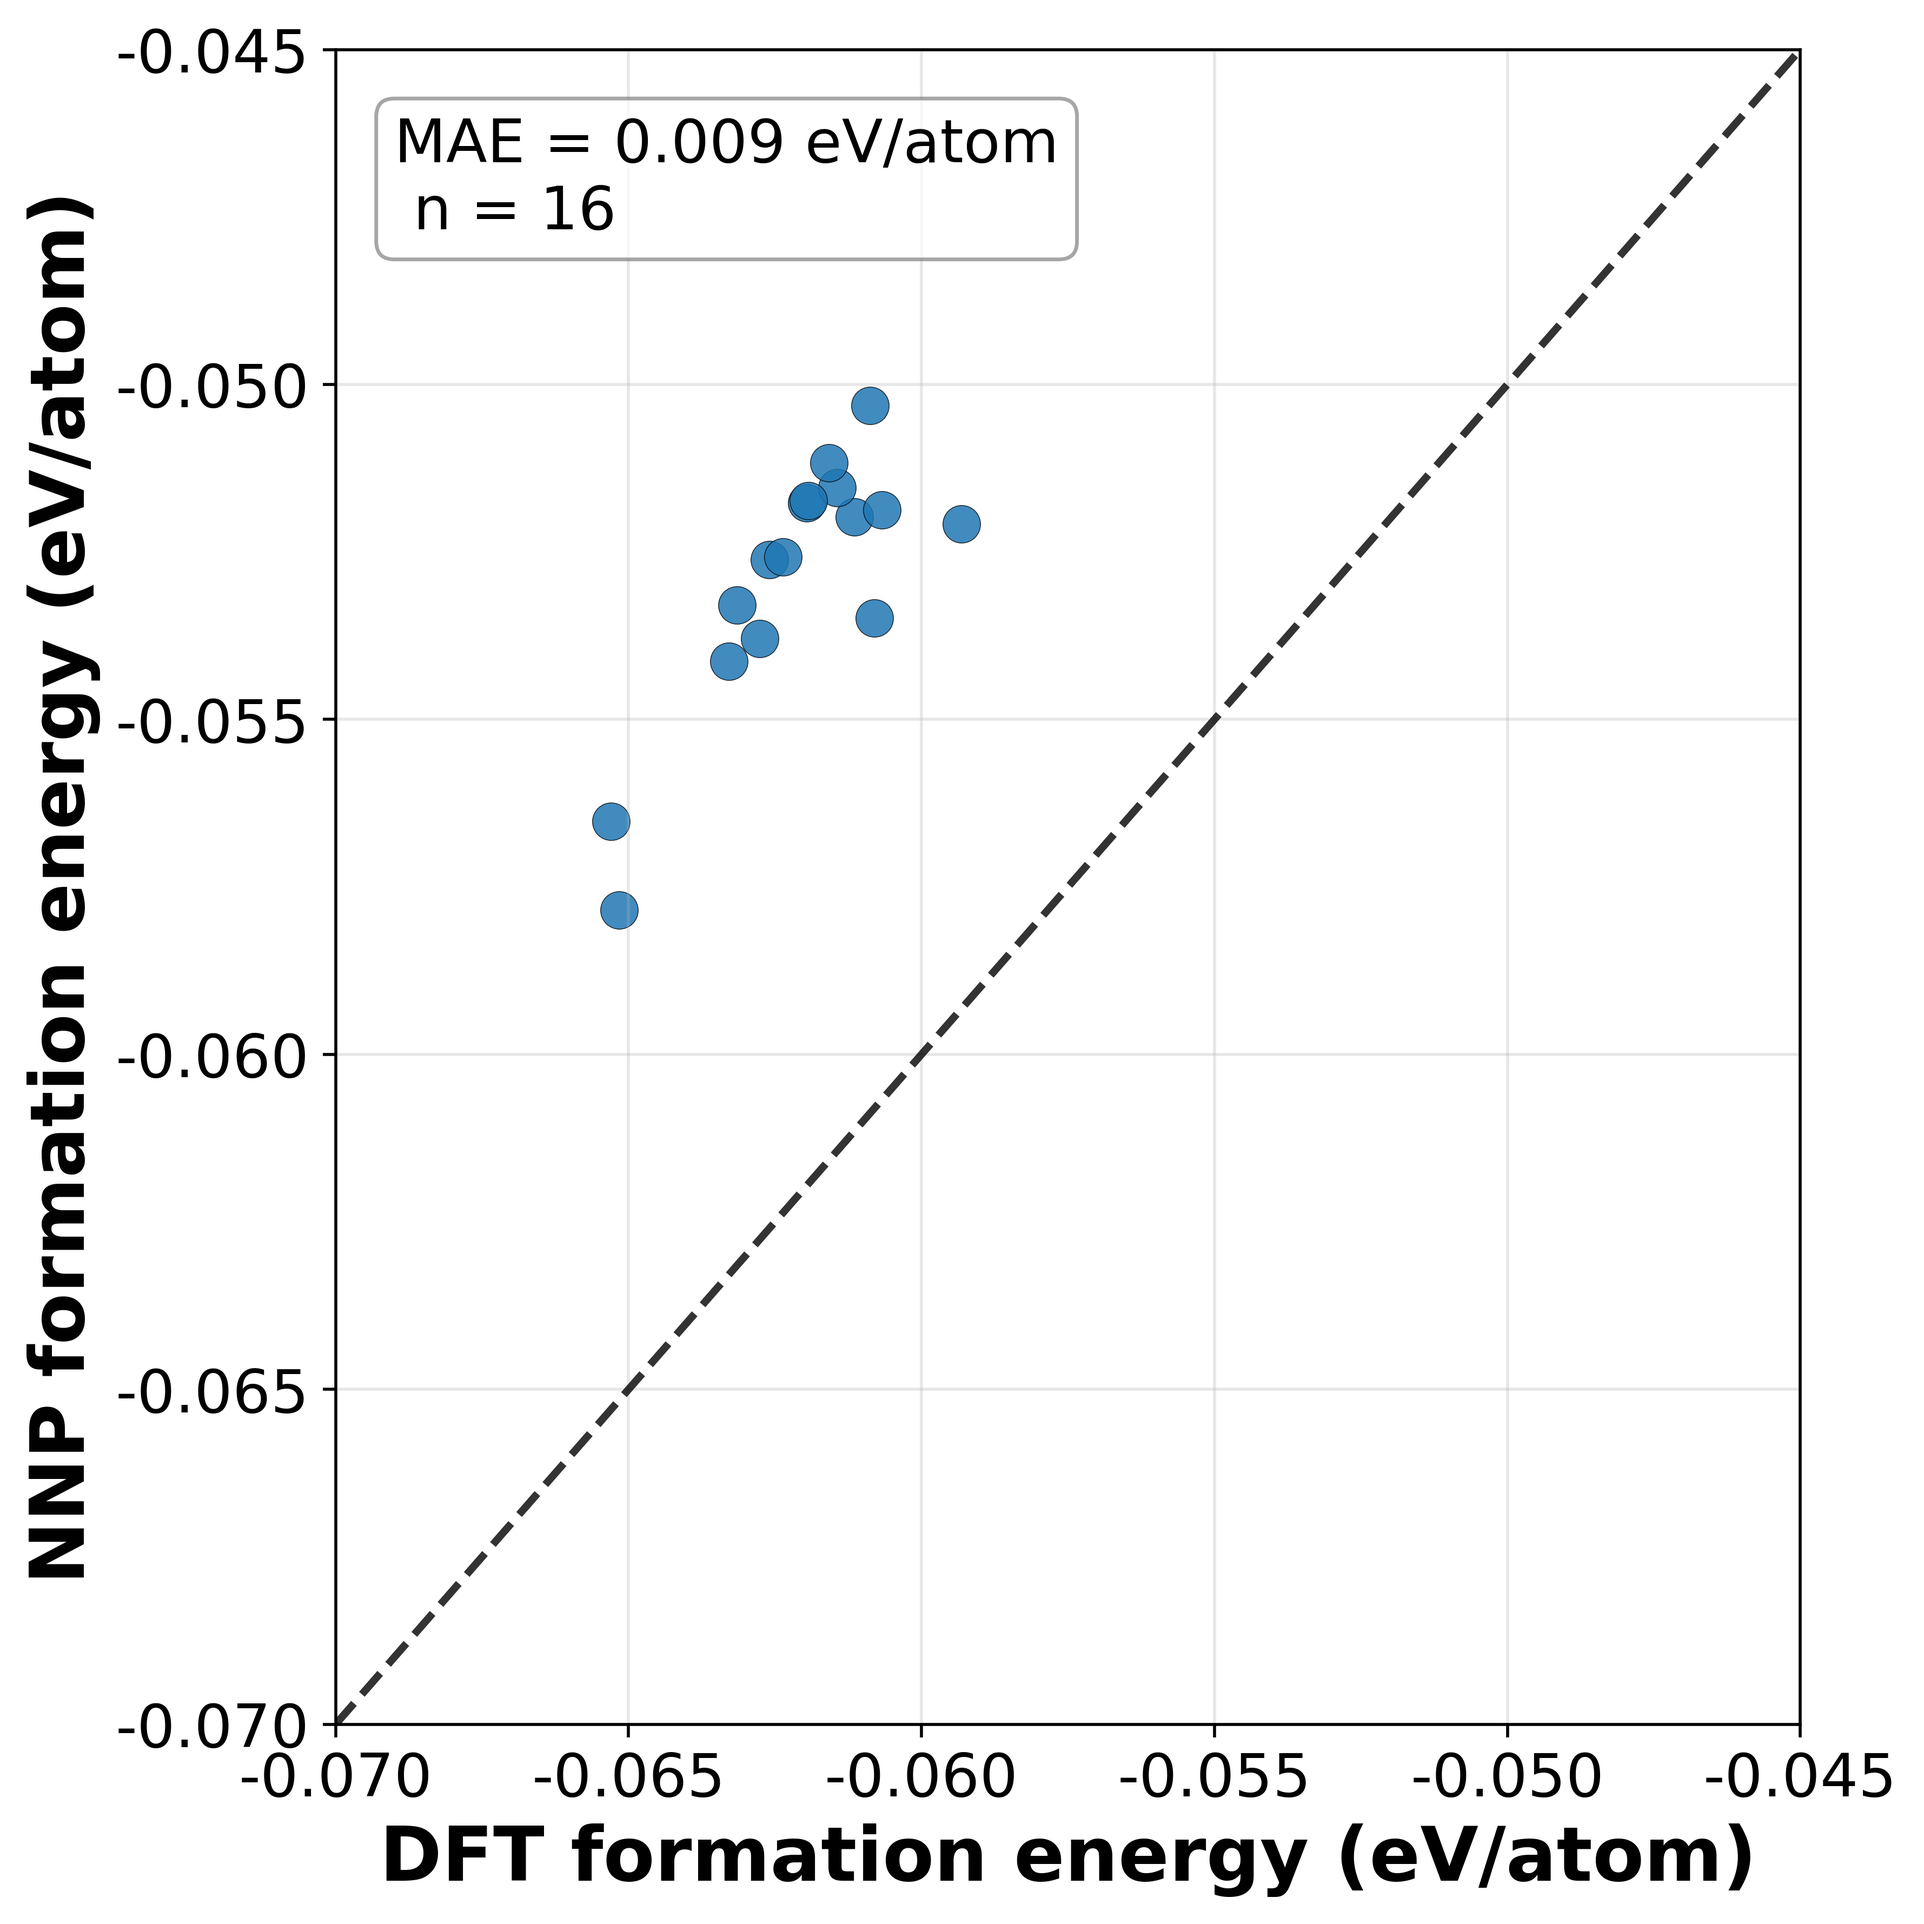
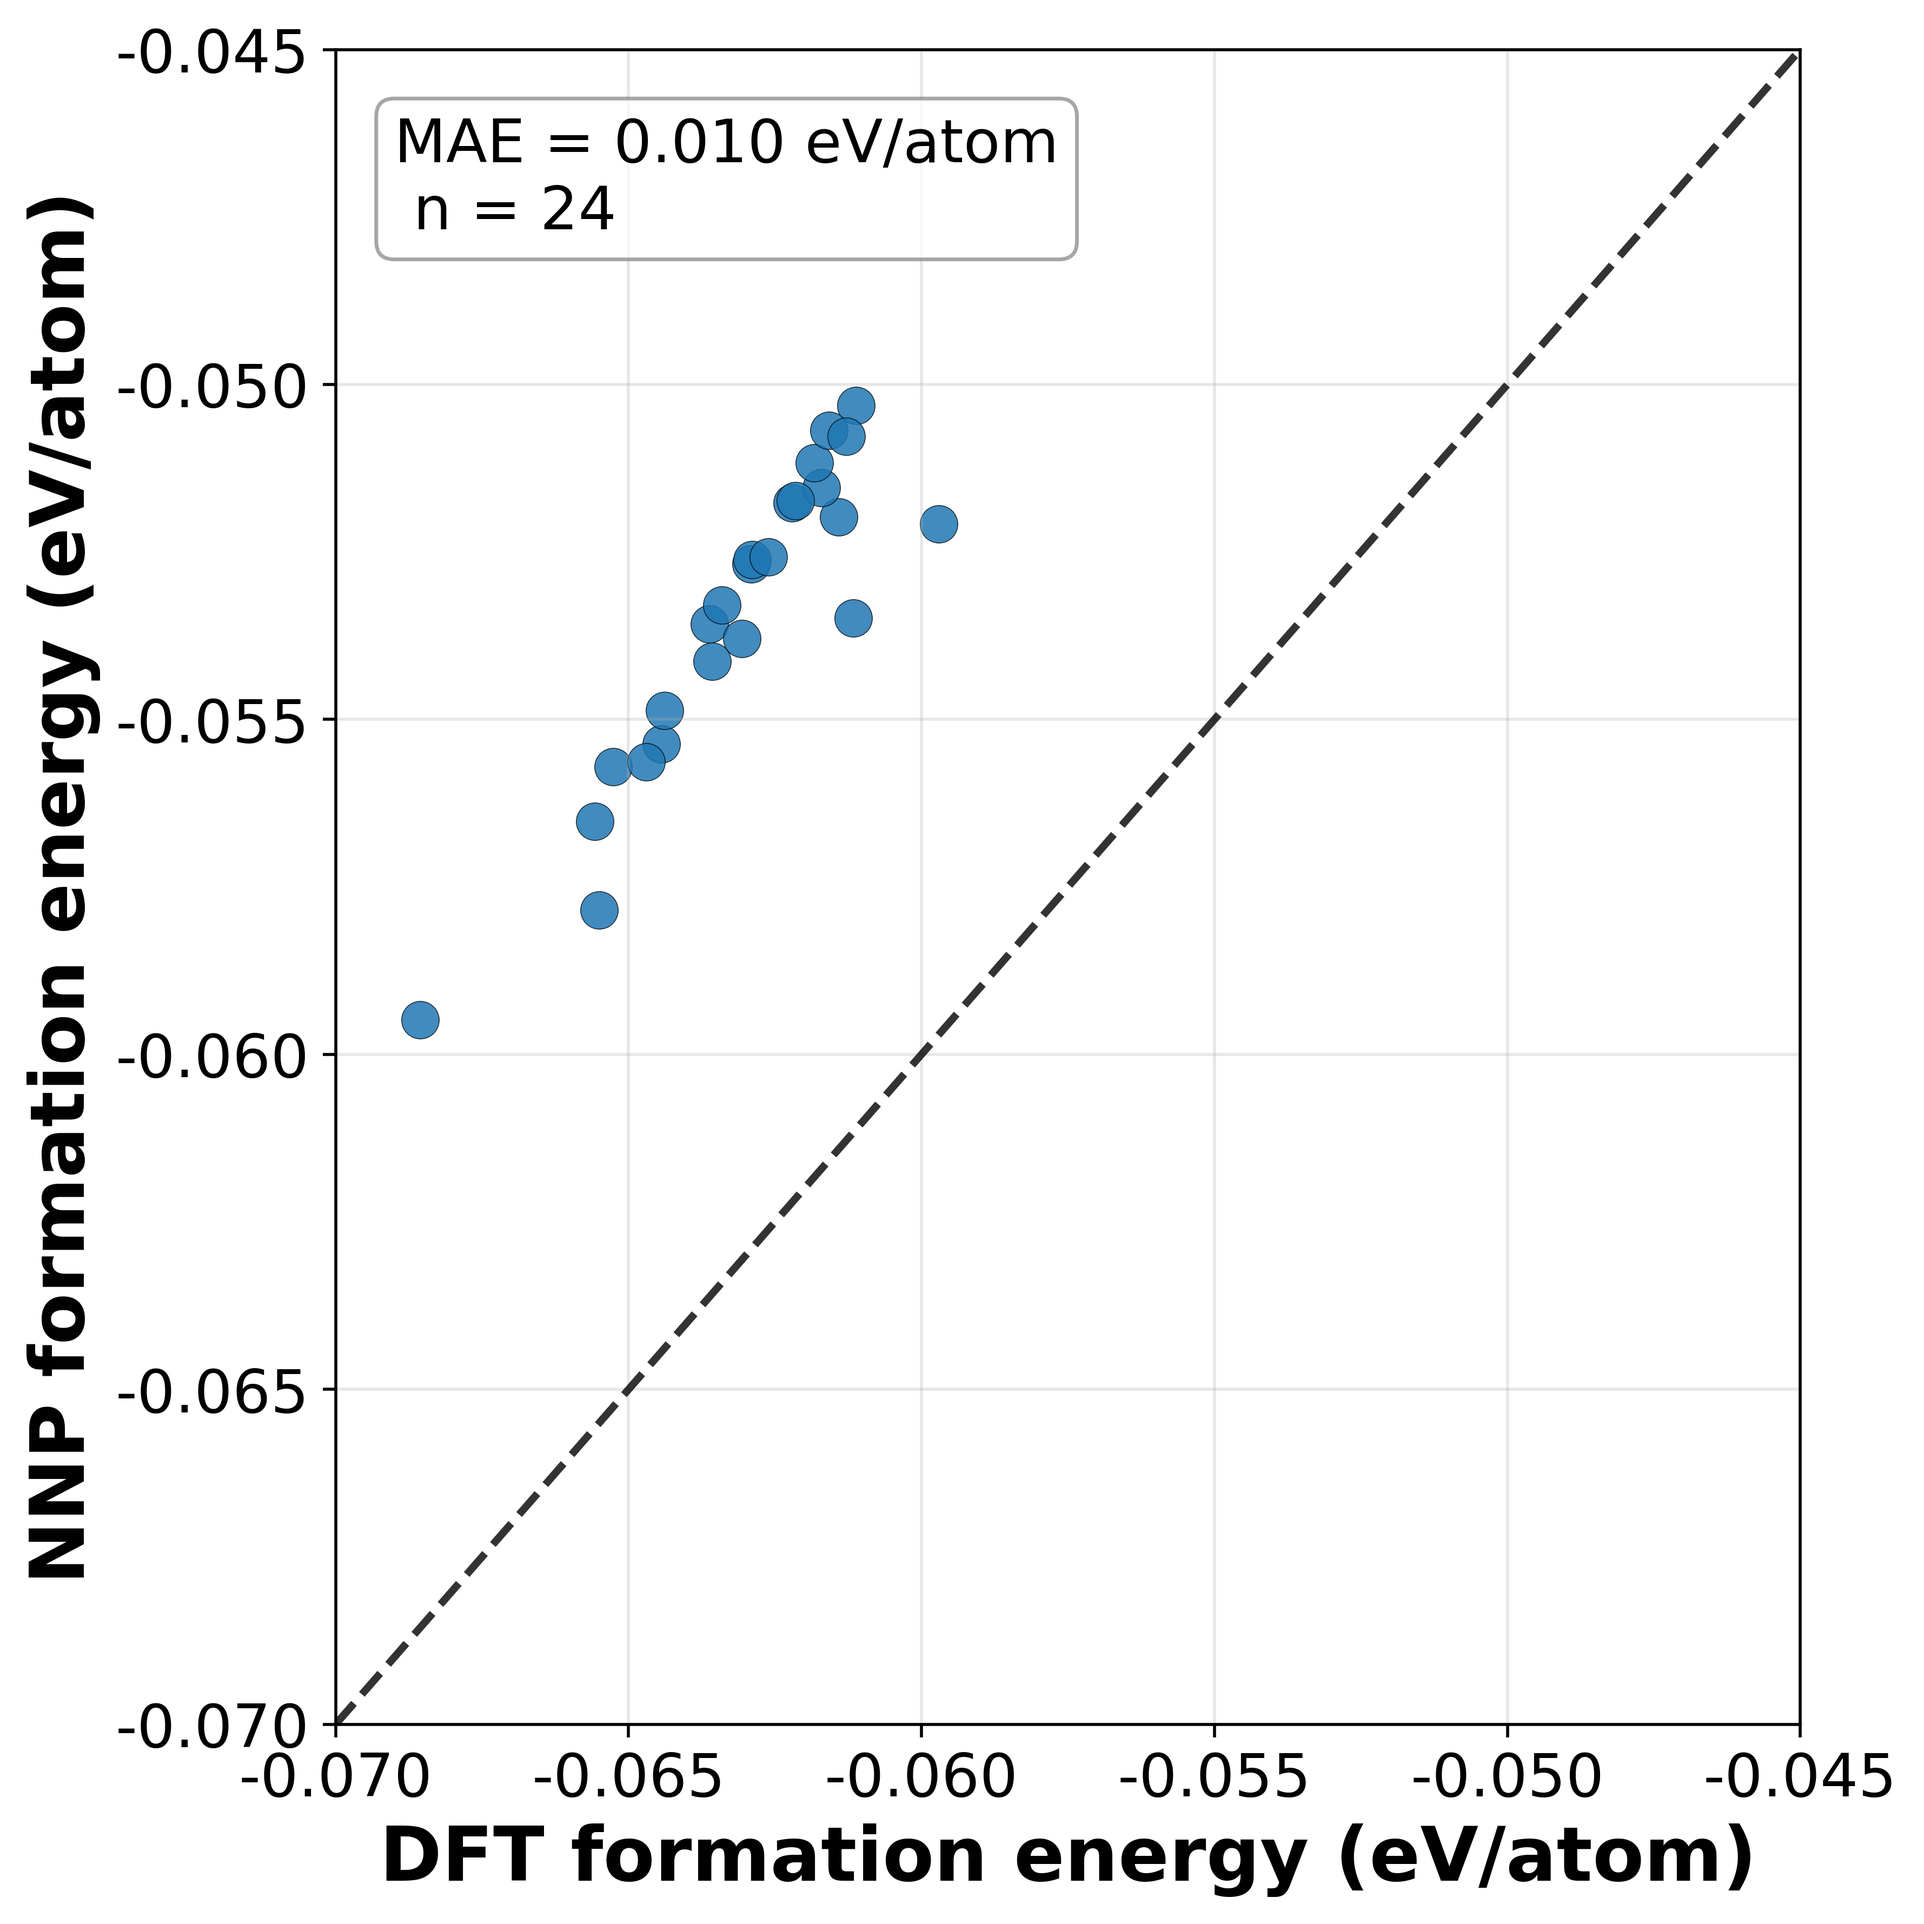
fix draft

diff --git a/paper/paper_en.md b/paper/paper_en.md
@@ -379,7 +379,7 @@ Figure 8. Phase diagram: Ni fraction vs formation energy colored by iter.
  
 ## 3.4 DFT Validation
 
-We check the 16 structures obtained in iteration 5 that satisfy η < 0.60 V and E_form < −0.05 eV/atom by DFT evaluation.
+We check the 24 structures obtained in iteration 5 that satisfy η < 0.60 V and E_form < −0.05 eV/atom by DFT evaluation.
 
 The trend of overpotential was well matched between NNP and DFT, with a mean absolute error of MAE ≈ 0.018 V.
 
